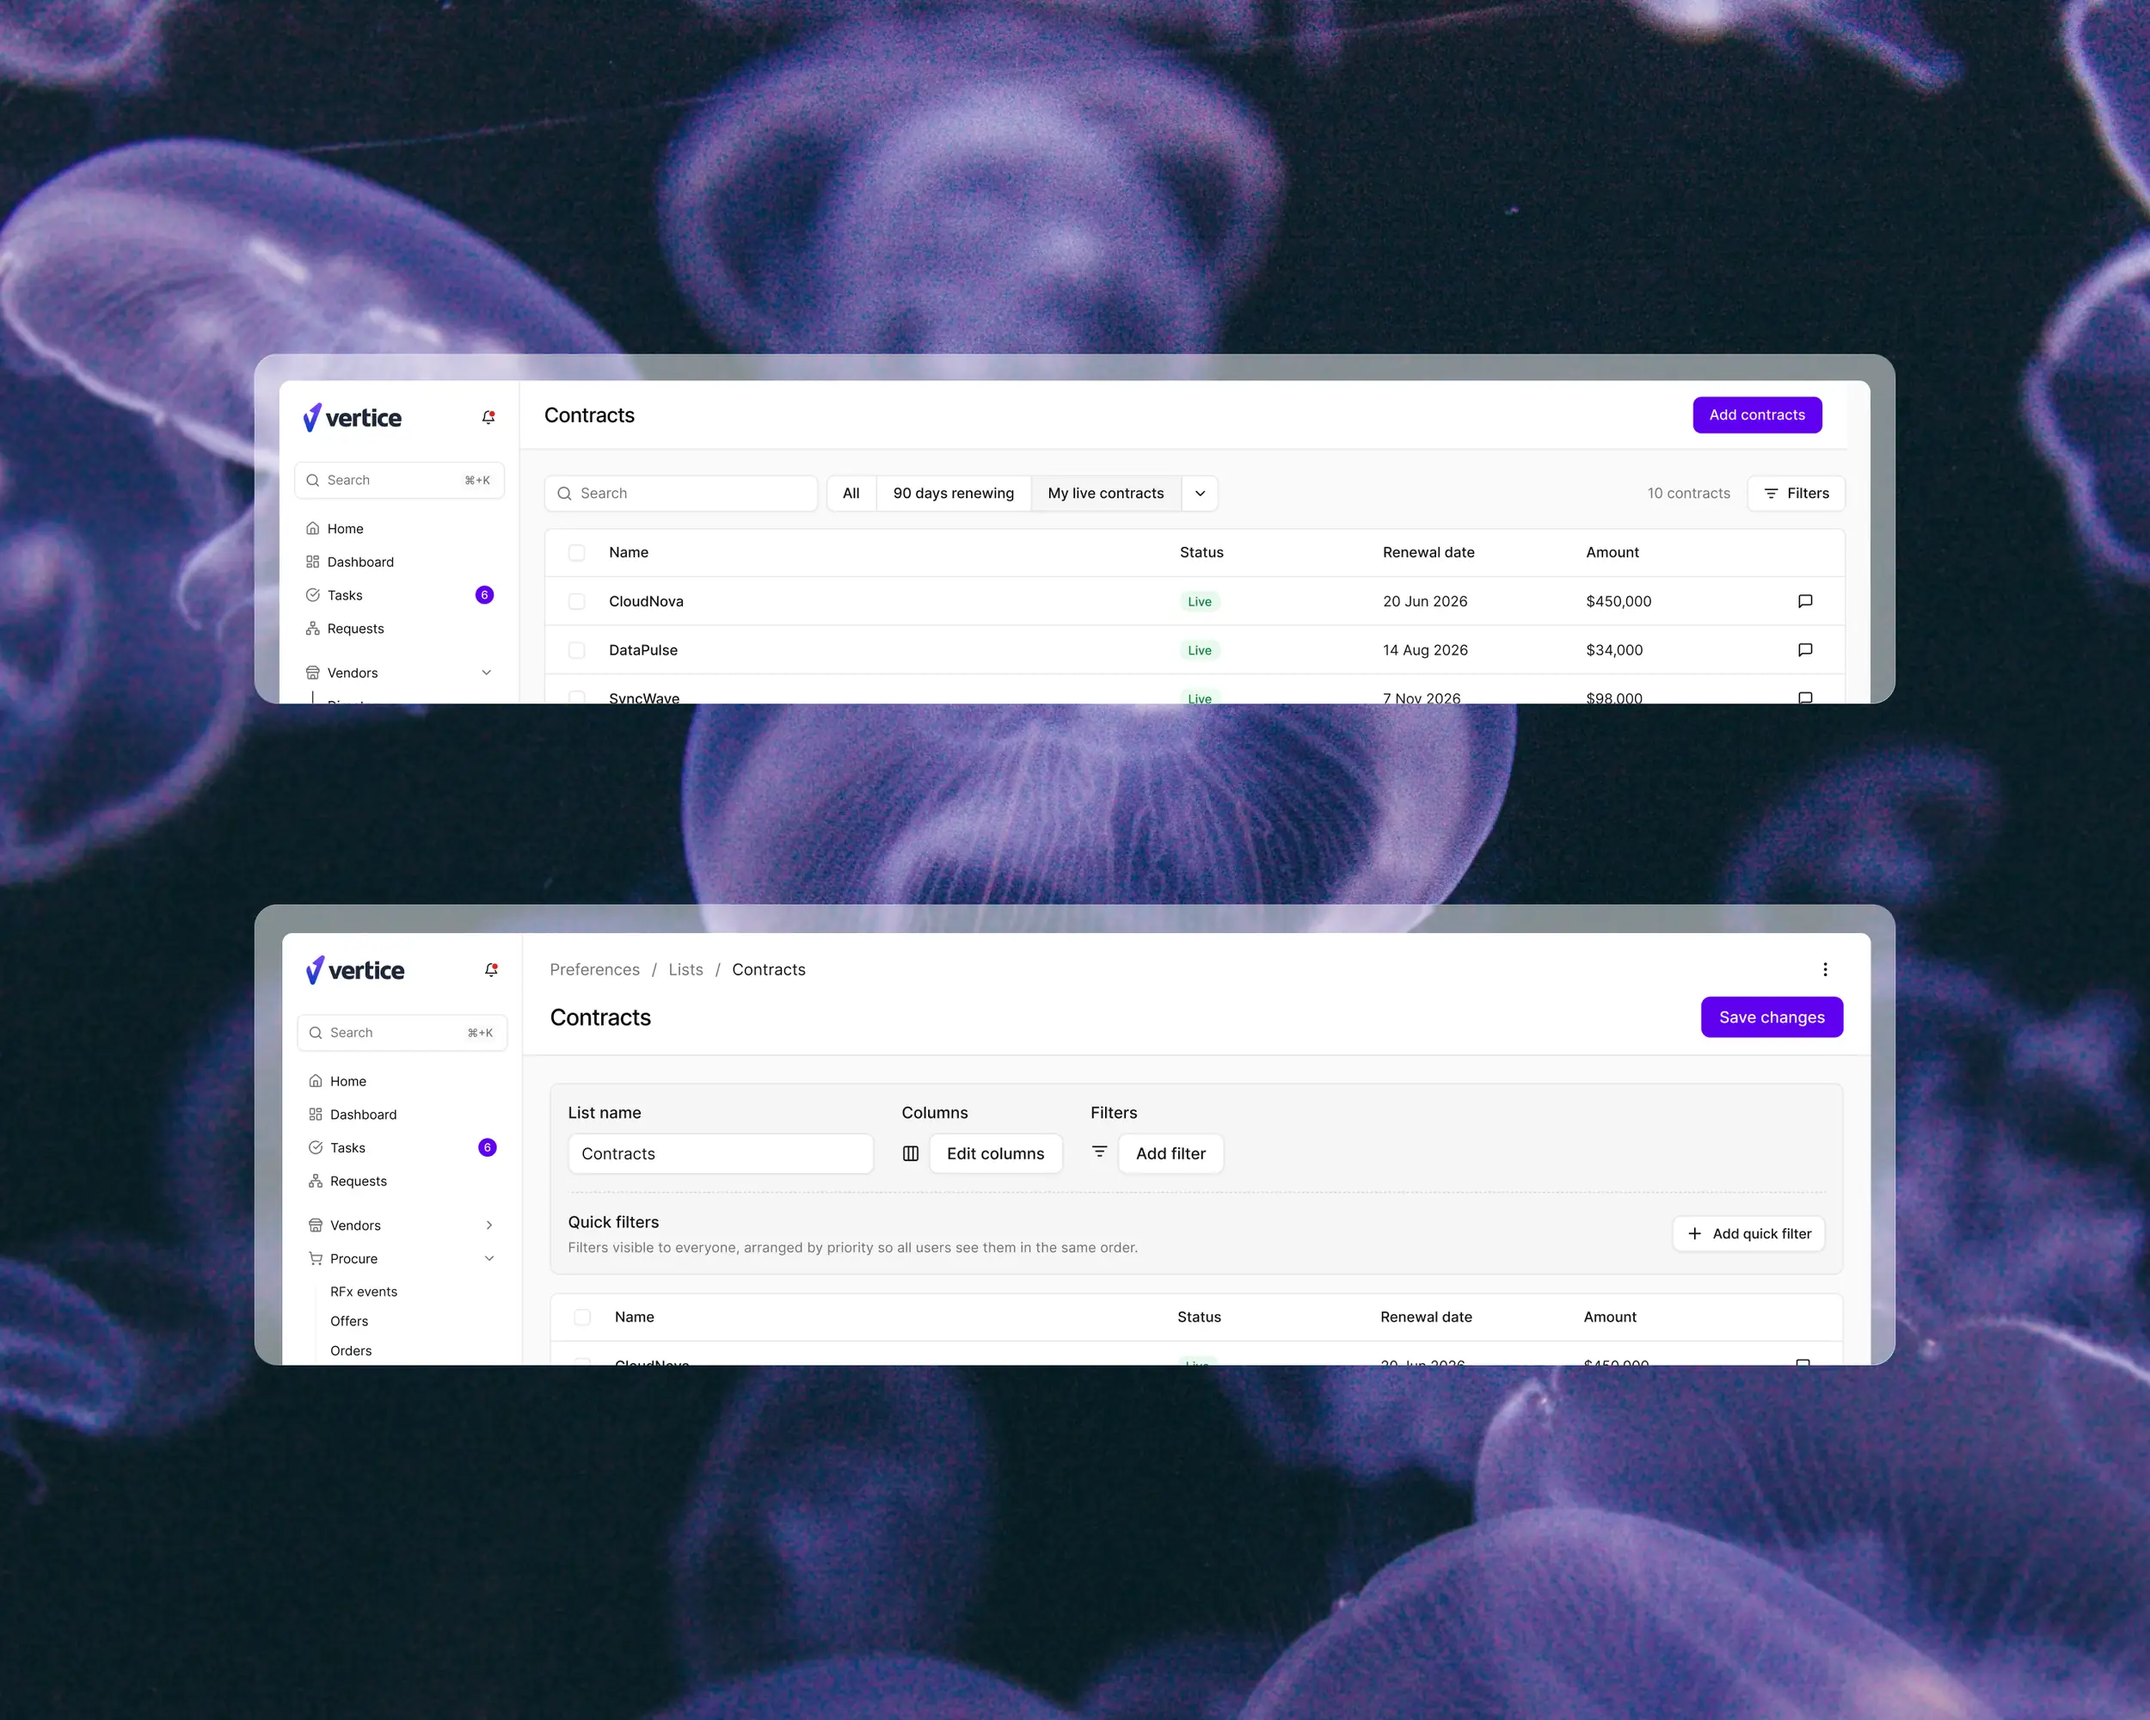
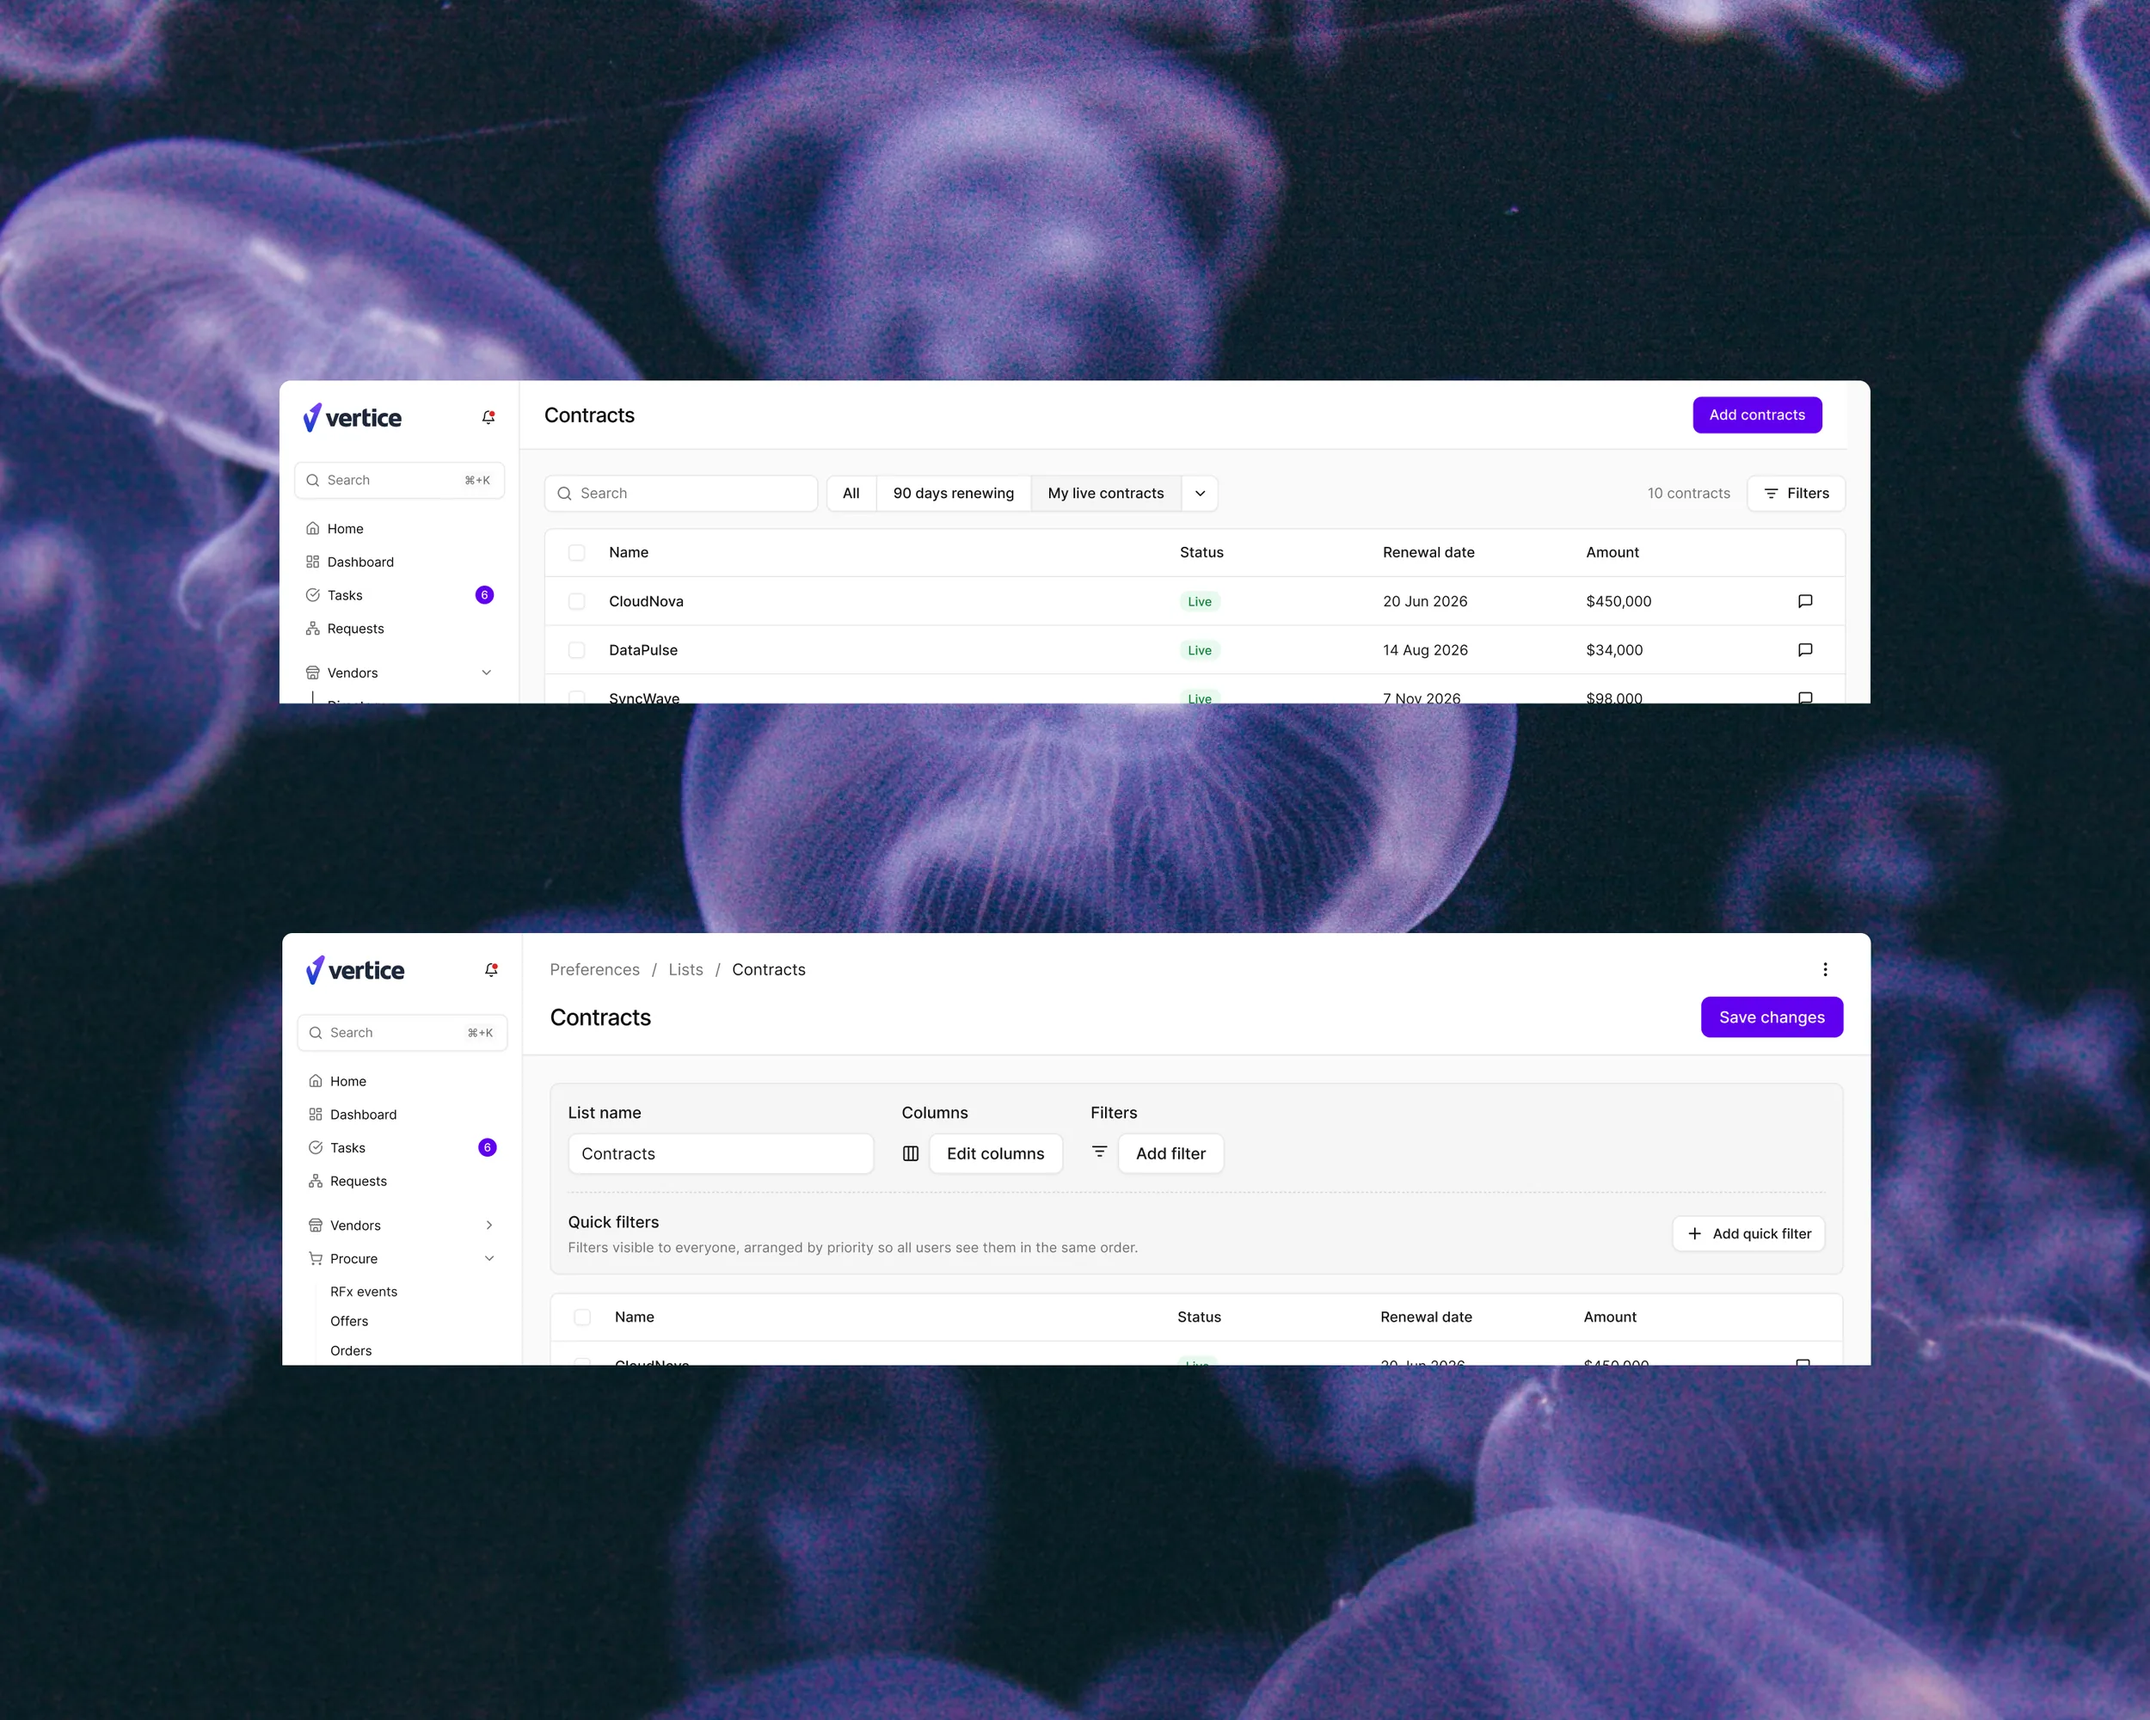
Stop the lightbox blanking on a carousel's last shot
The reveal waited only on img.decode(), which can hang forever on an
image the page never scrolls into view. That is always the last shot in
a carousel, since nothing moves the strip sideways: the data arrived but
the frame stayed hidden. Load, error, and an already-complete image now
count as ready too, and it decodes the lightbox's own img rather than the
on-page one it opened from.

Also swap in the re-exported Vertice quick filters shot.

Changed region(s): [[0.0936, 0.186, 0.9048, 0.403], [0.0936, 0.527, 0.9048, 0.806]]

diff --git a/script.js b/script.js
@@ -250,7 +250,6 @@ const fullSrc = img => img.dataset.full || img.currentSrc || img.src;
 // either an <img> or a .cycle, and a cycle is played rather than stepped.
 const isCycle = item => item.classList.contains('cycle');
 const framesOf = item => [...item.querySelectorAll('img')];
-const leadOf = item => (isCycle(item) ? framesOf(item)[0] : item);
 
 // The neighbours are the next thing anyone is going to ask for, so fetch them
 // while the current one is being looked at and the step lands instantly.
@@ -271,7 +270,6 @@ function show(i, dir) {
   at = i;
   const item = shots[i];
   const cycling = isCycle(item);
-  const lead = leadOf(item);
 
   // A cycle is rebuilt from its frames so it plays here the way it plays on
   // the page, off the same keyframes. A single shot uses the one <img>.
@@ -315,11 +313,18 @@ function show(i, dir) {
   // decodes. Showing it cold would flash the shot before it, so hold the
   // image back and let the new one bring itself in.
   const shown = cycling ? lightboxCycle : lightboxImg;
+  // Wait on the image the lightbox is about to paint, not the on-page one it
+  // was opened from. A carousel's last shot never gets scrolled into view, so
+  // its lazy <img> may never decode; gating the reveal on that left the
+  // lightbox stuck blank on that shot.
+  const decoder = cycling ? lightboxCycle.querySelector('img') : lightboxImg;
   const id = ++openId;
   shown.style.visibility = 'hidden';
 
+  let revealed = false;
   const reveal = () => {
-    if (id !== openId) return;   // a newer step owns the frame now
+    if (revealed || id !== openId) return;   // a newer step owns the frame now
+    revealed = true;
     shown.style.visibility = '';
     warm(i);
     if (stillEnough.matches) return;
@@ -333,9 +338,19 @@ function show(i, dir) {
   };
 
   // decode() settles on the next microtask for anything already cached, so a
-  // reopen still feels instant. It rejects on a broken image; show it anyway
+  // reopen still feels instant, and it is the cleanest cue that the pixels are
+  // ready. But on a shot the page never scrolled into view it has been seen to
+  // hang forever, which left the lightbox stuck blank on a carousel's last
+  // image, so load/error and an already-complete image count as ready too and
+  // whichever fires first wins. It rejects on a broken image; show it anyway
   // and let the usual broken-image handling take over.
-  lead.decode().then(reveal, reveal);
+  if (decoder.complete && decoder.naturalWidth) {
+    reveal();
+  } else {
+    decoder.addEventListener('load', reveal, { once: true });
+    decoder.addEventListener('error', reveal, { once: true });
+  }
+  decoder.decode().then(reveal, reveal);
 }
 
 function step(by) {
